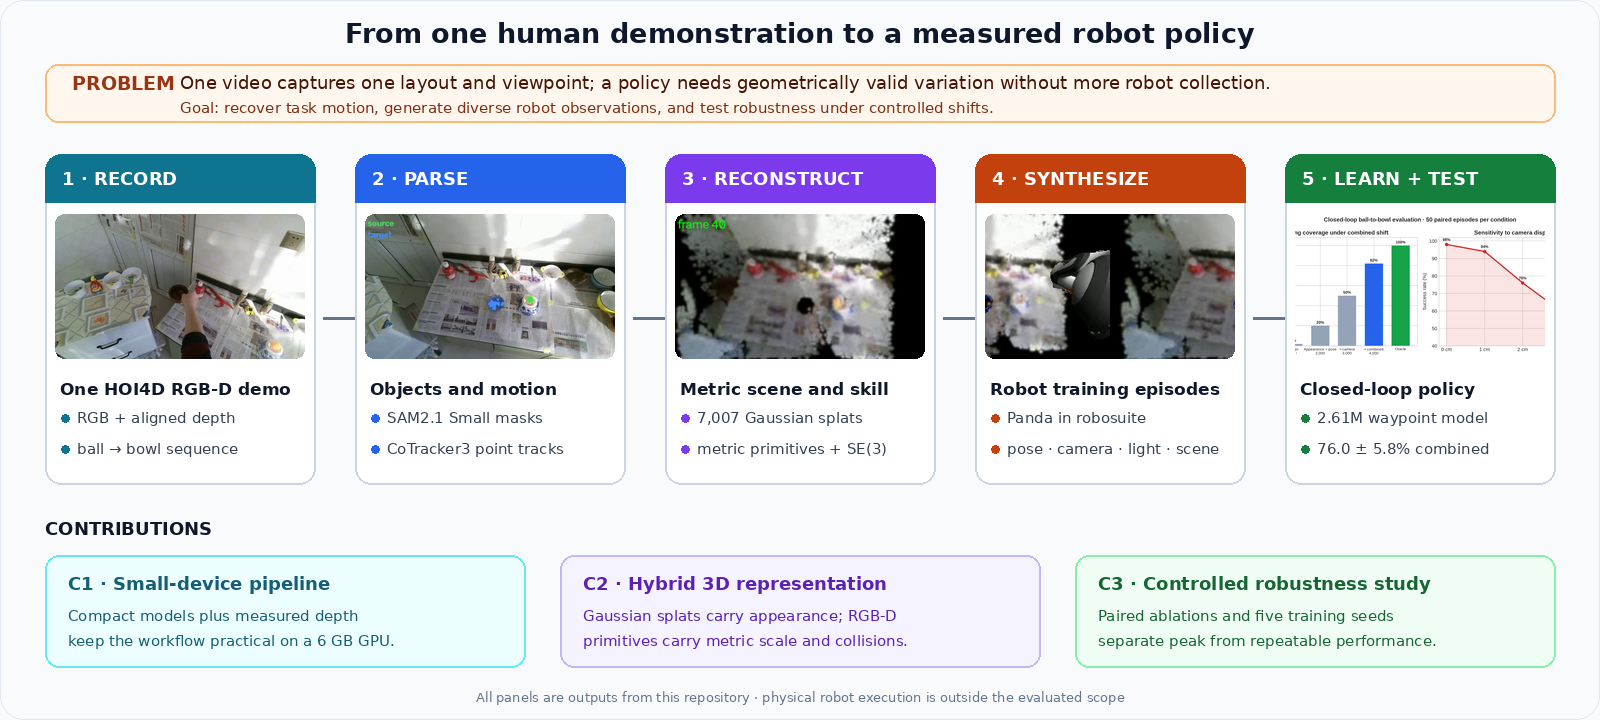
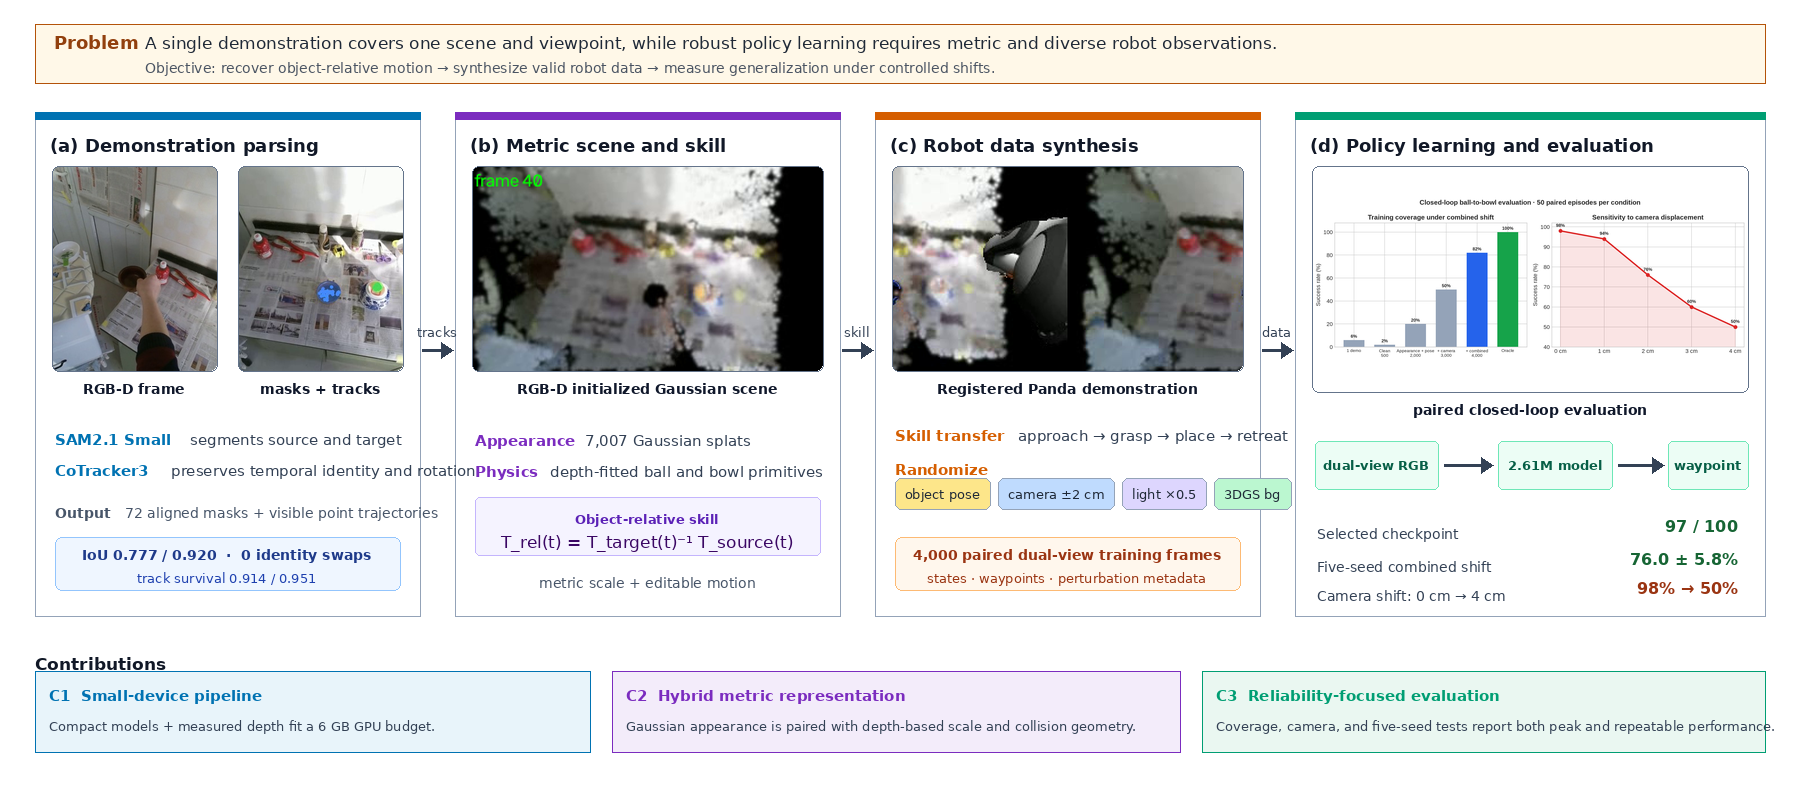
docs: restyle pipeline as scientific overview

diff --git a/README.md b/README.md
@@ -59,9 +59,10 @@ Machine-readable results are under [`docs/experiments`](docs/experiments).
 
 <img src="docs/assets/project-overview.png" width="100%" alt="Measured five-stage pipeline using actual project outputs: HOI4D RGB-D input, SAM2 and CoTracker perception, a Gaussian metric scene, registered robot synthesis, and closed-loop policy evaluation">
 
-The figure shows actual artifacts from the repository. The recovered ball-to-bowl skill
-is transferred into a measured Panda simulation, varied across pose, camera, lighting,
-and Gaussian background, then used to train and test the same compact waypoint policy.
+**Pipeline.** One RGB-D demonstration is segmented and tracked, converted into a
+metric Gaussian scene and object-relative skill, transferred to a Panda, and randomized
+across pose, camera, lighting, and background. The resulting 4,000 dual-view frames train
+a compact waypoint model evaluated with paired shifts and five training seeds.
 
 ## Real generated outputs
 
